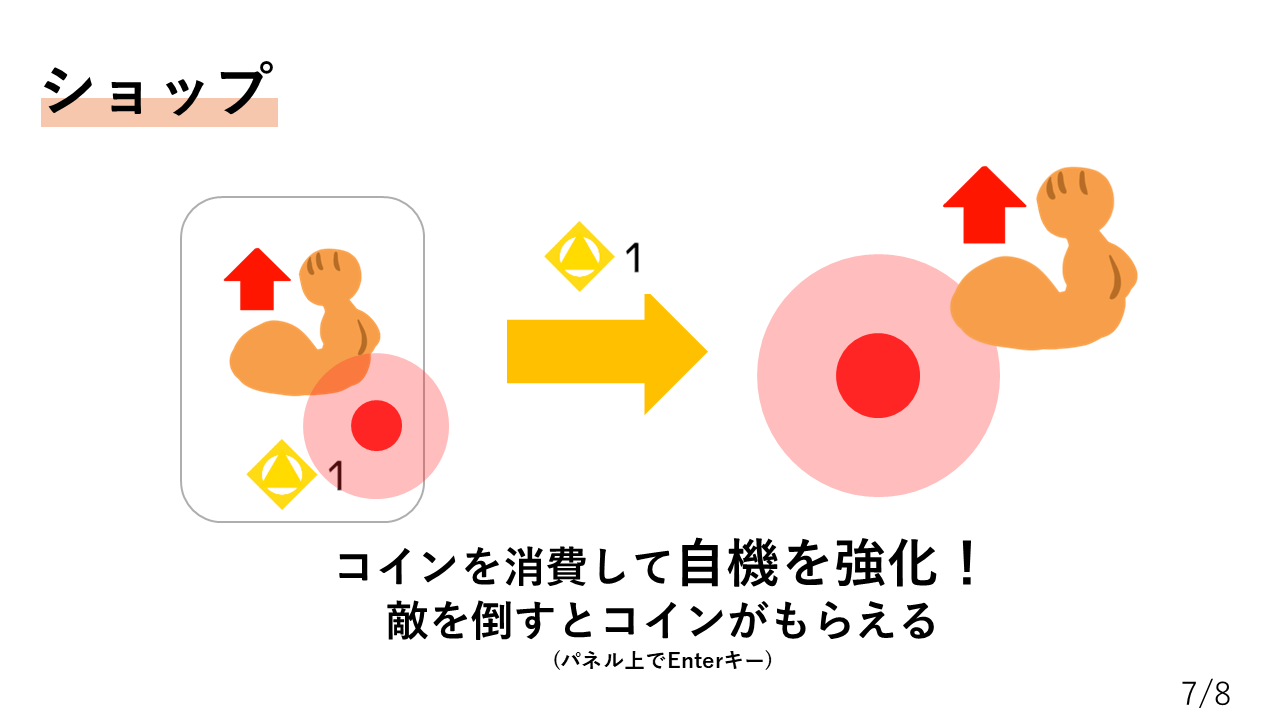
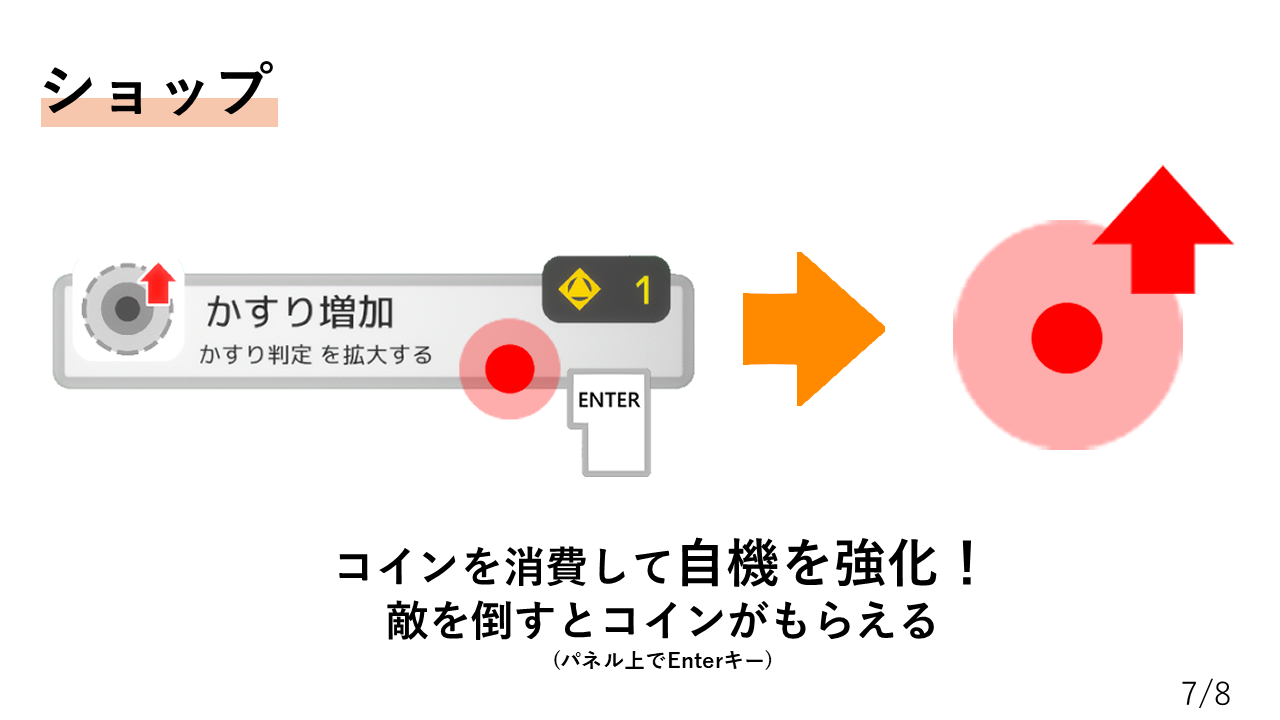
ショップのUI変更に基づいて、マニュアルスライドの画像を変更。エンターキーの画像変更。キー項目Esc:Quitを追加。

Changed region(s): [[0.0312, 0.2139, 0.9688, 0.7333], [0.1562, 0.7028, 0.1875, 0.7333]]

diff --git a/README.md b/README.md
@@ -17,6 +17,7 @@ URL: https://prapro-ou.github.io/FiveFighters/
 - スペシャルスキル: Oキー
 - シフトスキル: J, K, Lキー
 - ショップでの決定: Enterキー
+- ゲーム終了: Escapeキー
 
 # 使用素材
 ## フォント
